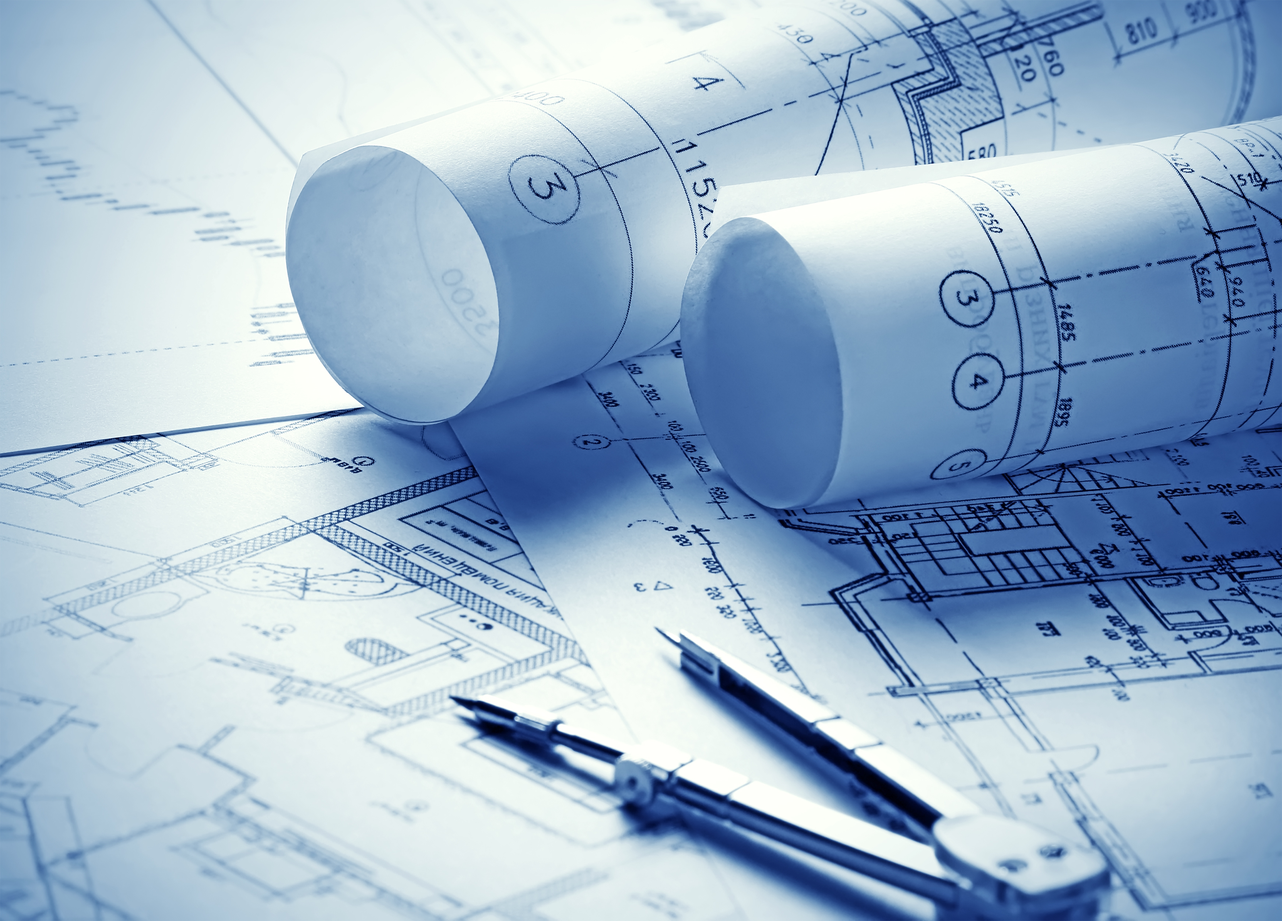
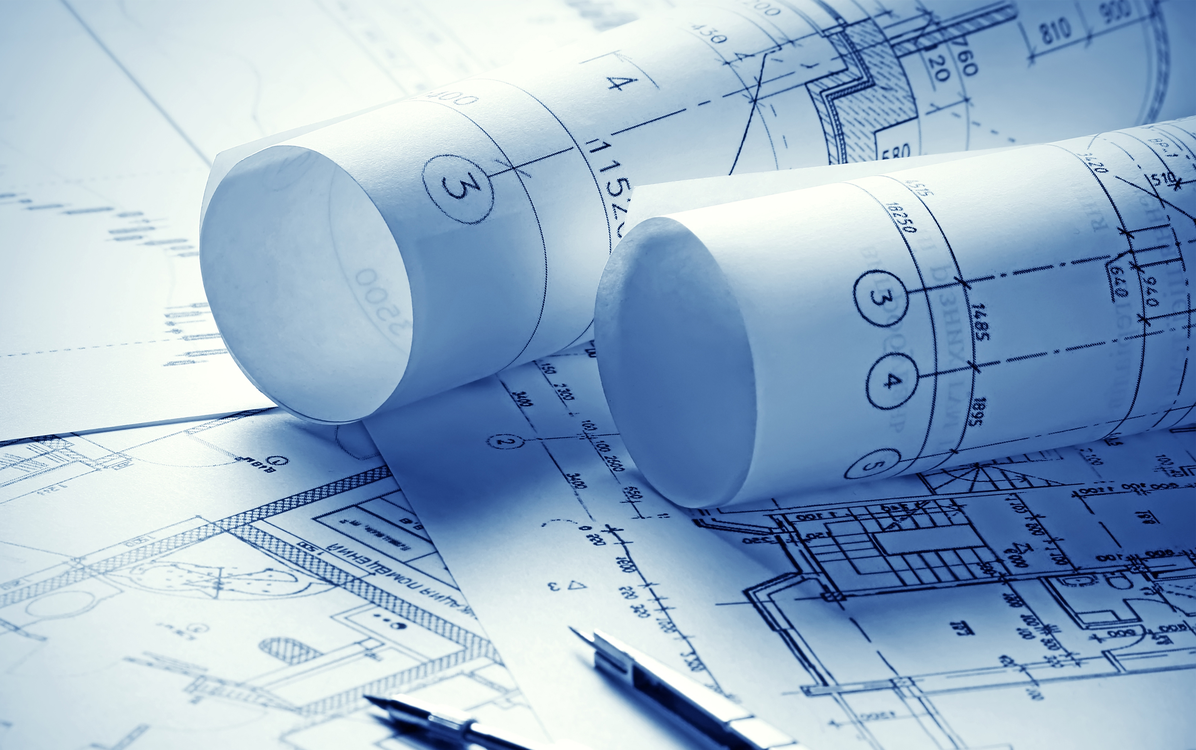
dept images resized

diff --git a/TheEvent/index.html b/TheEvent/index.html
@@ -86,7 +86,7 @@
   <section id="intro">
     
     <div class="intro-container wow fadeIn">
-      <h1 class="mb-4 pb-0">GCOEJ's<br><span>Tech-Carava</span></h1>
+      <h1 class="mb-4 pb-0">GCOEJ's<br><span>Tech-Caravaan</span></h1>
       <p class="mb-4 pb-0">19th May to 21st May 2022, GCOE Jalgaon</p>
       
       <a href="https://www.youtube.com/watch?v=jDDaplaOz7Q" class="venobox play-btn mb-4" data-vbtype="video"
@@ -140,7 +140,7 @@
         <div class="row">
           <div class="col-lg-4 col-md-6">
             <div class="speaker">
-              <img src="img/dept/istockphoto-1176400518-170667a.jpg" alt="Speaker 1" class="img-fluid" height="660" width="420">
+              <img  height="300px" width="400px" src="img/dept/istockphoto-1176400518-170667a.jpg" alt="Speaker 1" class="img-fluid img-responsive" height="660" width="420">
               <div class="details">
                 <h3><a href="compdept.html">Department of Computer Engineering</a></h3>
                 <div class="social">
@@ -151,8 +151,8 @@
           </div>
           <div class="col-lg-4 col-md-6">
             <div class="speaker">
-              <img src="img/dept/mechanical.jpg" alt="Speaker 1" class="img-fluid">
-              <div class="details">
+              <img height="300px" width="400px"  src="img/dept/mechanical.jpg" alt="Speaker 1" class="img-fluid img-responsive">
+               <div class="details">
                 <h3><a href="mech.html">Department of Mechanical Engineering</a></h3>
                 <div class="social">
                   <a href=""><i class="fa fa-link"></i></a>
@@ -162,7 +162,7 @@
           </div>
           <div class="col-lg-4 col-md-6">
             <div class="speaker">
-              <img src="img/dept/electrical.jpg" alt="Speaker 1" class="img-fluid">
+              <img  height="300px" width="400px" src="img/dept/electrical.jpg" alt="Speaker 1" class="img-fluid  img-responsive">
               <div class="details">
                 <h3><a href="elec.html">Department of Electrical Engineering</a></h3>
                 <div class="social">
@@ -173,7 +173,7 @@
           </div>
           <div class="col-lg-4 col-md-6">
             <div class="speaker">
-              <img src="img/dept/civil.jpg" alt="Speaker 1" class="img-fluid">
+              <img height="300px" width="400px"  src="img/dept/civil.jpg" alt="Speaker 1" class="img-fluid img-responsive">
               <div class="details">
                 <h3><a href="civil.html">Department of Civil Engineering</a></h3>
                 <div class="social">
@@ -184,8 +184,8 @@
           </div>
           <div class="col-lg-4 col-md-6">
             <div class="speaker">
-              <img src="img/dept/Instrumentation.jpg" alt="Speaker 1" class="img-fluid">
-              <div class="details">
+              <img height="300px" width="400px"  src="img/dept/Instrumentation.jpg" alt="Speaker 1" class="img-fluid img-responsive">
+               <div class="details">
                 <h3><a href="instru.html">Department of Instrumentation Engineering</a></h3>
                 <div class="social">
                   <a href=""><i class="fa fa-link"></i></a>
@@ -195,8 +195,8 @@
           </div>
           <div class="col-lg-4 col-md-6">
             <div class="speaker">
-              <img src="img/dept/E&TC.jpg" alt="Speaker 1" class="img-fluid">
-              <div class="details">
+              <img  height="300px" width="400px" src="img/dept/E&TC.jpg" alt="Speaker 1" class="img-fluid img-responsive">
+               <div class="details">
                 <h3><a href="entc.html">Department of E&TC </a></h3>
                 <div class="social">
                   <a href=""><i class="fa fa-link"></i></a>
